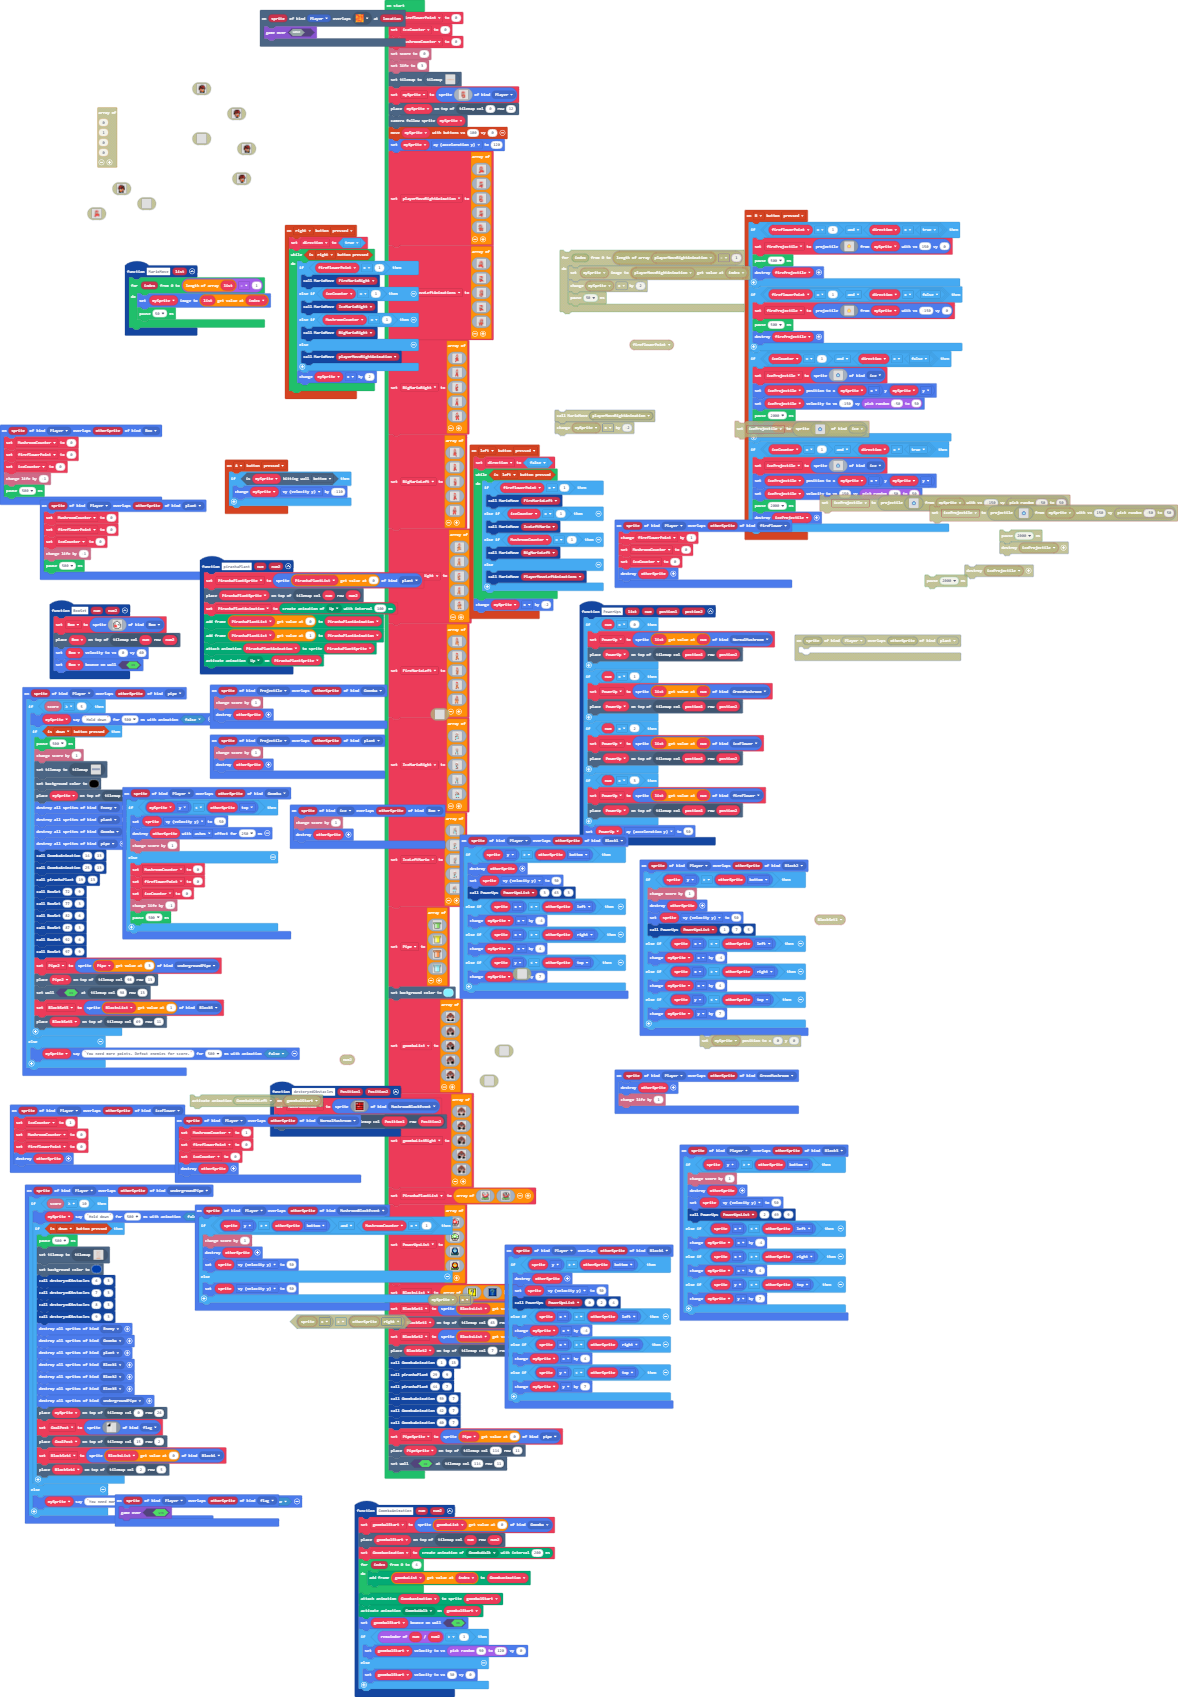
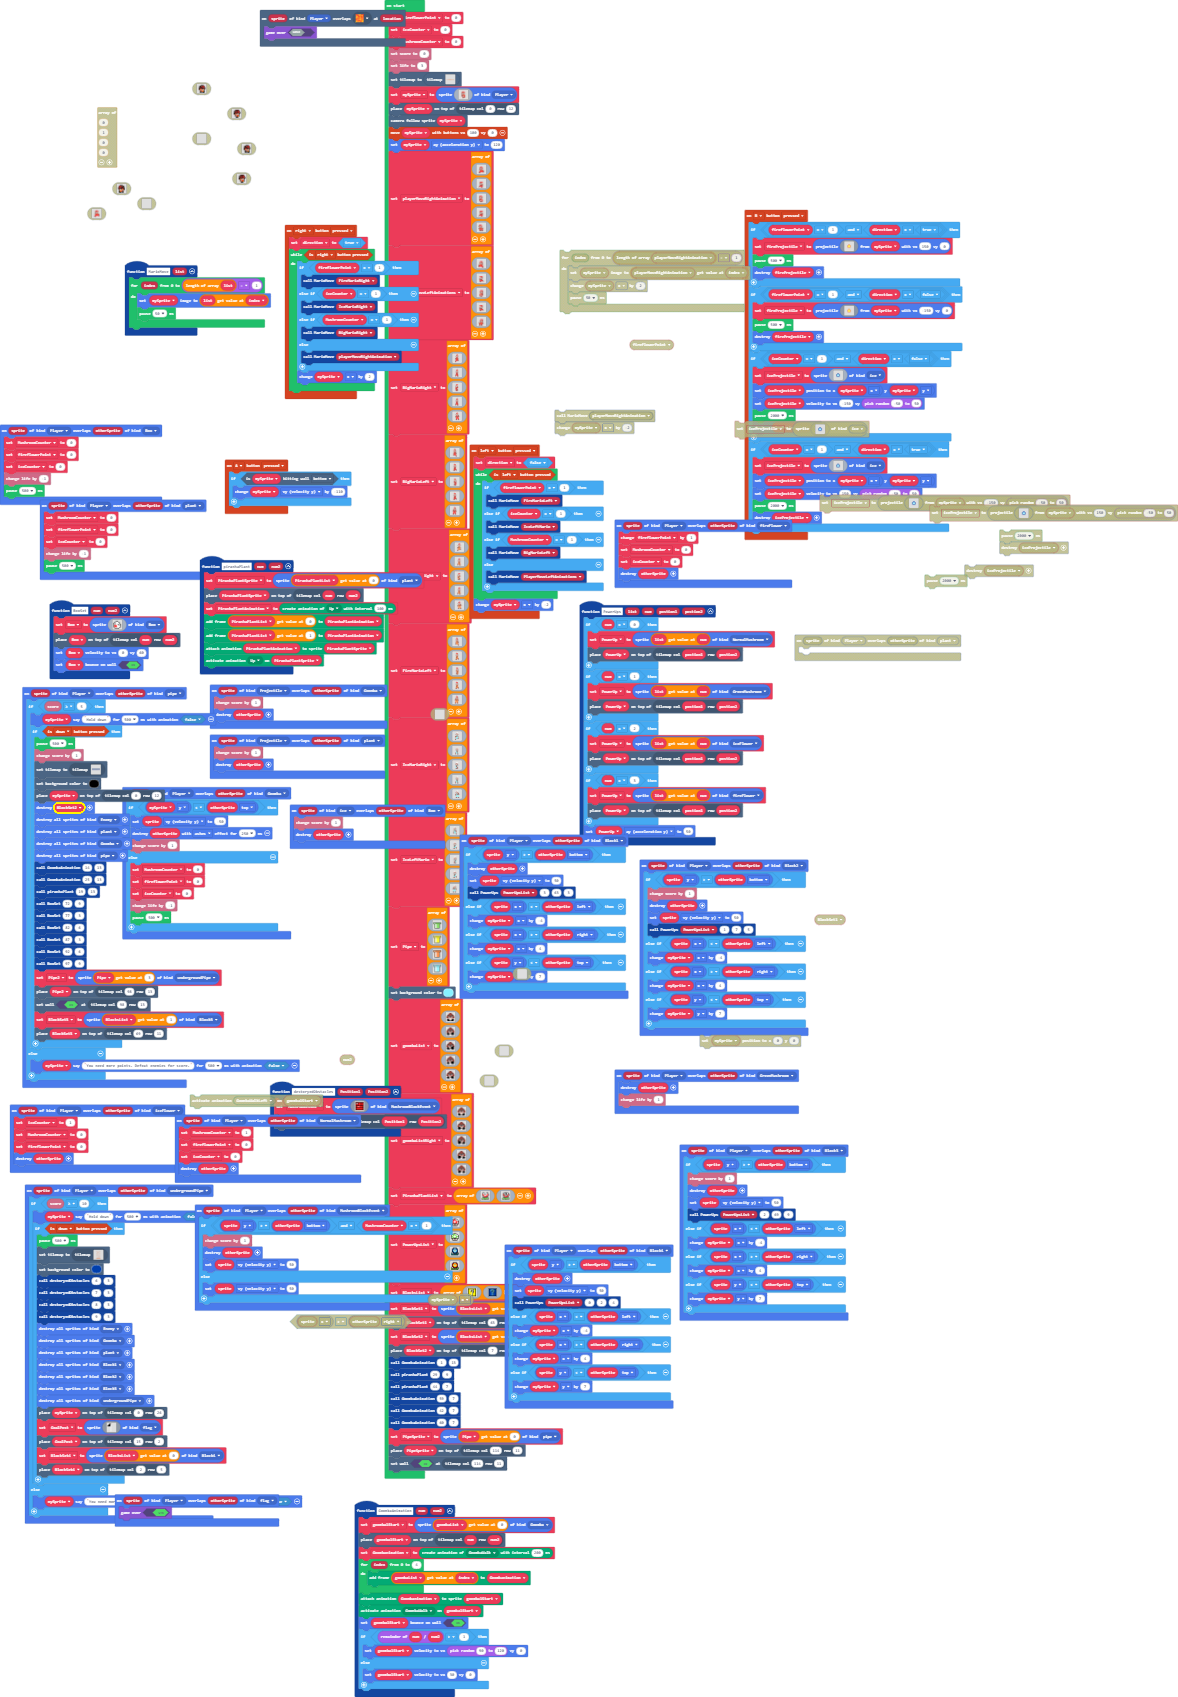
Update main.blocks, main.ts

Changed region(s): [[0.0, 0.5622, 0.2445, 0.6559], [0.0306, 0.4685, 0.1222, 0.5309]]

diff --git a/main.ts b/main.ts
@@ -258,6 +258,7 @@ sprites.onOverlap(SpriteKind.Player, SpriteKind.pipe, function (sprite, otherSpr
             tiles.setCurrentTilemap(tilemap`level4`)
             scene.setBackgroundColor(15)
             tiles.placeOnTile(mySprite, tiles.getTileLocation(0, 12))
+            sprites.destroy(BlockSet2)
             sprites.destroyAllSpritesOfKind(SpriteKind.Enemy)
             sprites.destroyAllSpritesOfKind(SpriteKind.plant)
             sprites.destroyAllSpritesOfKind(SpriteKind.Goomba)
@@ -470,6 +471,7 @@ let MushroomEvent: Sprite = null
 let iceProjectile: Sprite = null
 let fireProjectile: Sprite = null
 let direction = false
+let BlockSet2: Sprite = null
 let BlocksList: Image[] = []
 let PowerUpsList: Image[] = []
 let PiranhaPlantList: Image[] = []
@@ -2368,7 +2370,7 @@ BlocksList = [img`
     `]
 let BlockSet1 = sprites.create(BlocksList[0], SpriteKind.Block1)
 tiles.placeOnTile(BlockSet1, tiles.getTileLocation(63, 5))
-let BlockSet2 = sprites.create(BlocksList[0], SpriteKind.Block2)
+BlockSet2 = sprites.create(BlocksList[0], SpriteKind.Block2)
 tiles.placeOnTile(BlockSet2, tiles.getTileLocation(7, 7))
 GoombaAnimation(1, 13)
 piranhaPlant(29, 9)
